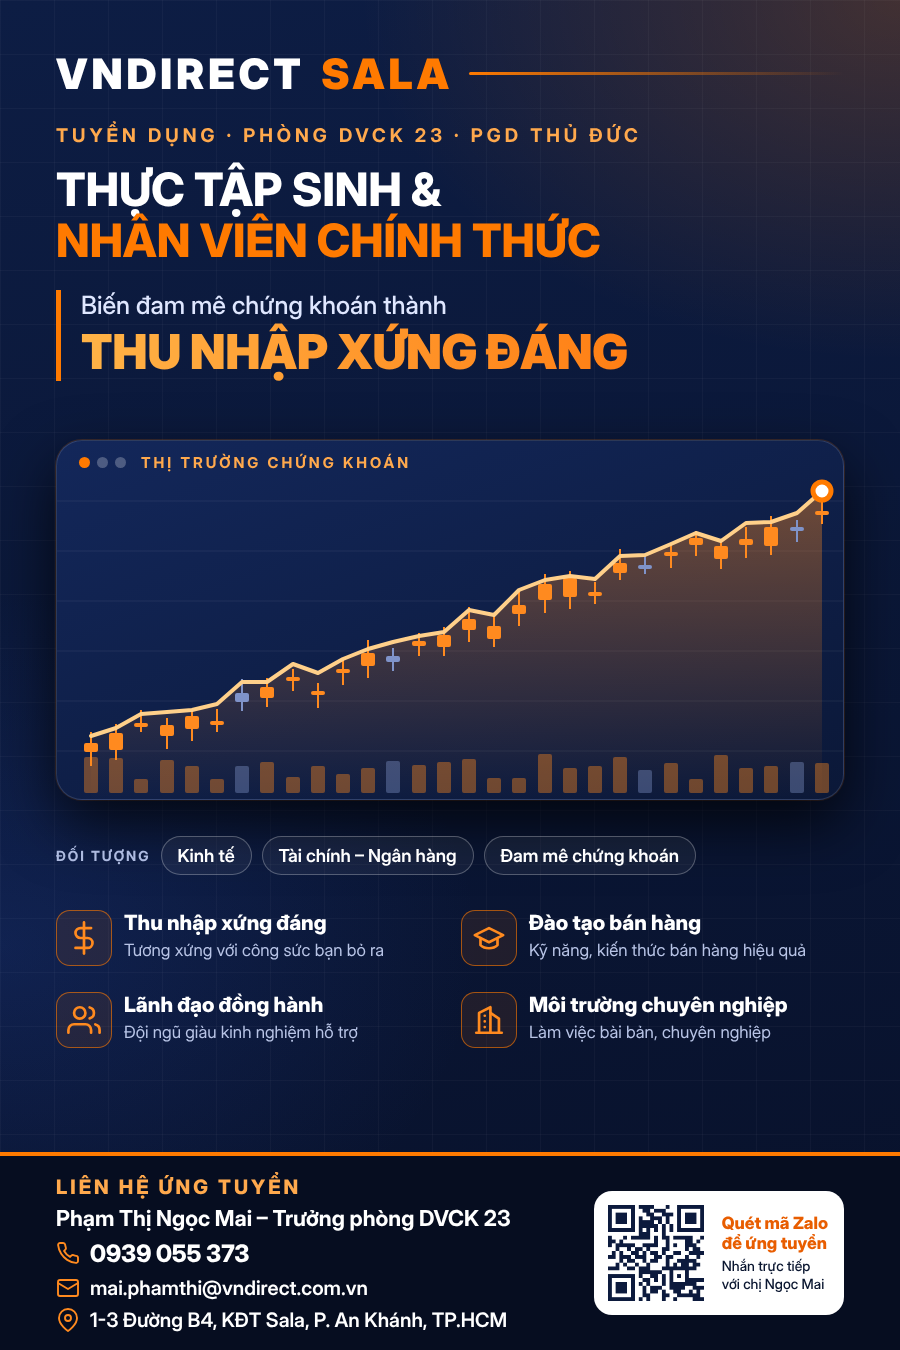
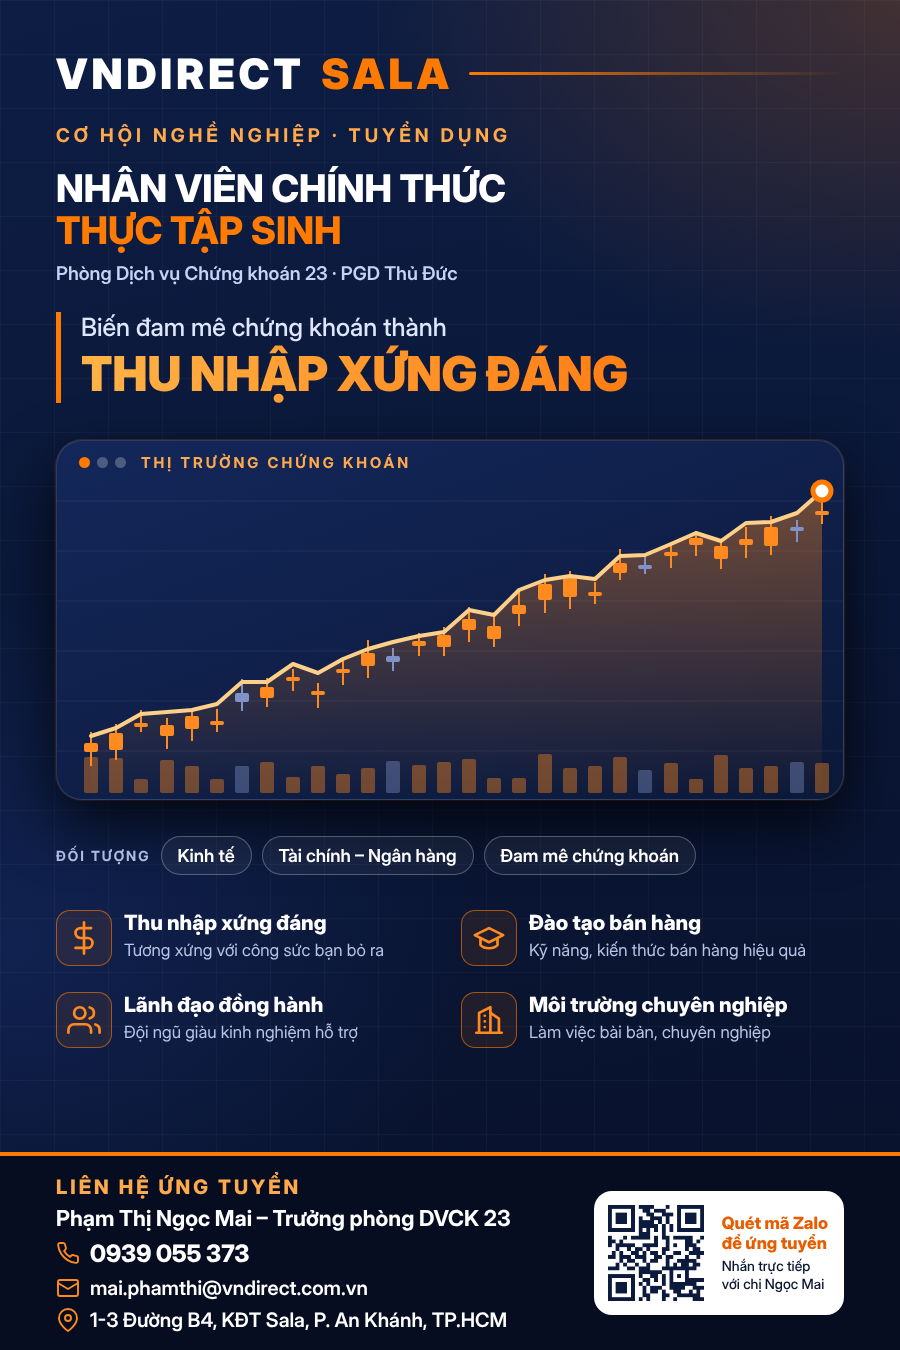
Reorder headline, add career-opportunity label, shrink headline font
Claude-Session: https://claude.ai/code/session_018tv2baJyNPqKrqKUyJ6wTq

Changed region(s): [[0.0622, 0.0933, 0.7156, 0.3111]]

diff --git a/tuyen-dung-vndirect/banner-doc.html b/tuyen-dung-vndirect/banner-doc.html
@@ -8,9 +8,10 @@ background:radial-gradient(900px 600px at 100% 0%,#ff7a0038 0,#0000 60%),radial-
 .logo{top:48px;font-size:46px;font-weight:900;letter-spacing:4px;display:flex;align-items:center;gap:16px}
 .logo span{color:var(--o)} .logo i{flex:1;height:3px;background:linear-gradient(90deg,var(--o),#0000);border-radius:2px}
 .ov{top:124px;font-size:19px;font-weight:700;letter-spacing:4px;color:var(--o2)}
-h1{top:164px;font-size:46px;line-height:1.1;font-weight:800;text-transform:uppercase}
+h1{top:168px;font-size:38px;line-height:1.1;font-weight:800;text-transform:uppercase}
 h1 span{color:var(--o)}
-.q{top:290px;padding-left:20px;border-left:5px solid var(--o)}
+.dept{top:262px;font-size:19px;font-weight:600;color:#c7d3f5}
+.q{top:312px;padding-left:20px;border-left:5px solid var(--o)}
 .q p{font-size:25px;font-weight:500;color:#dfe7ff}
 .q b{display:block;margin-top:2px;font-size:48px;font-weight:900;text-transform:uppercase;background:linear-gradient(90deg,#ffb347,#ff6a00);-webkit-background-clip:text;color:transparent;white-space:nowrap}
 .dash{top:440px;height:360px;border-radius:26px;background:linear-gradient(160deg,#13275a,#0b1838);border:1px solid #ffffff22;box-shadow:0 24px 60px #000b,0 0 0 1px #ff7a0033;overflow:hidden}
@@ -36,8 +37,8 @@ h1 span{color:var(--o)}
 .qr p{font-size:15px;font-weight:500;line-height:1.3;margin-top:3px}
 </style></head><body><div class="grid"></div>
 <div class="a logo">VNDIRECT <span>SALA</span><i></i></div>
-<div class="a ov">TUYỂN DỤNG · PHÒNG DVCK 23 · PGD THỦ ĐỨC</div>
-<h1 class="a">Thực tập sinh &amp;<br><span>Nhân viên chính thức</span></h1>
+<div class="a ov">CƠ HỘI NGHỀ NGHIỆP · TUYỂN DỤNG</div>
+<h1 class="a">Nhân viên chính thức<br><span>Thực tập sinh</span></h1><div class="a dept">Phòng Dịch vụ Chứng khoán 23 · PGD Thủ Đức</div>
 <div class="a q"><p>Biến đam mê chứng khoán thành</p><b>thu nhập xứng đáng</b></div>
 <div class="a dash"><div class="dh"><i></i><i></i><i></i></div><div class="dt">THỊ TRƯỜNG CHỨNG KHOÁN</div>
 <svg viewBox="0 0 952 360" width="952" height="360"><defs><linearGradient id="a" x1="0" y1="0" x2="0" y2="1"><stop offset="0" stop-color="#ff8a1f" stop-opacity=".4"/><stop offset="1" stop-color="#ff8a1f" stop-opacity="0"/></linearGradient></defs><line x1="0" y1="60" x2="952" y2="60" stroke="#fff" stroke-opacity=".07"/><line x1="0" y1="110" x2="952" y2="110" stroke="#fff" stroke-opacity=".07"/><line x1="0" y1="160" x2="952" y2="160" stroke="#fff" stroke-opacity=".07"/><line x1="0" y1="210" x2="952" y2="210" stroke="#fff" stroke-opacity=".07"/><line x1="0" y1="260" x2="952" y2="260" stroke="#fff" stroke-opacity=".07"/><line x1="0" y1="310" x2="952" y2="310" stroke="#fff" stroke-opacity=".07"/><polygon points="36,295 61,289 86,276 112,276 137,275 162,270 187,250 212,251 238,235 263,245 288,232 313,224 338,218 364,214 389,211 414,190 439,197 464,173 490,165 515,162 540,166 565,145 590,145 616,136 641,126 666,135 691,119 716,119 742,112 767,91 792,87 817,85 842,78 868,63 893,69 918,50 918,360 36,360" fill="url(#a)"/><rect x="29" y="316" width="14" height="36" rx="2" fill="#ff8a1f" opacity=".4"/><rect x="54" y="317" width="14" height="35" rx="2" fill="#ff8a1f" opacity=".4"/><rect x="79" y="338" width="14" height="14" rx="2" fill="#ff8a1f" opacity=".4"/><rect x="105" y="319" width="14" height="33" rx="2" fill="#ff8a1f" opacity=".4"/><rect x="130" y="325" width="14" height="27" rx="2" fill="#ff8a1f" opacity=".4"/><rect x="155" y="338" width="14" height="14" rx="2" fill="#ff8a1f" opacity=".4"/><rect x="180" y="325" width="14" height="27" rx="2" fill="#7f93c9" opacity=".4"/><rect x="205" y="321" width="14" height="31" rx="2" fill="#ff8a1f" opacity=".4"/><rect x="231" y="336" width="14" height="16" rx="2" fill="#ff8a1f" opacity=".4"/><rect x="256" y="325" width="14" height="27" rx="2" fill="#ff8a1f" opacity=".4"/><rect x="281" y="333" width="14" height="19" rx="2" fill="#ff8a1f" opacity=".4"/><rect x="306" y="327" width="14" height="25" rx="2" fill="#ff8a1f" opacity=".4"/><rect x="331" y="320" width="14" height="32" rx="2" fill="#7f93c9" opacity=".4"/><rect x="357" y="324" width="14" height="28" rx="2" fill="#ff8a1f" opacity=".4"/><rect x="382" y="321" width="14" height="31" rx="2" fill="#ff8a1f" opacity=".4"/><rect x="407" y="318" width="14" height="34" rx="2" fill="#ff8a1f" opacity=".4"/><rect x="432" y="337" width="14" height="15" rx="2" fill="#ff8a1f" opacity=".4"/><rect x="457" y="337" width="14" height="15" rx="2" fill="#ff8a1f" opacity=".4"/><rect x="483" y="313" width="14" height="39" rx="2" fill="#ff8a1f" opacity=".4"/><rect x="508" y="327" width="14" height="25" rx="2" fill="#ff8a1f" opacity=".4"/><rect x="533" y="325" width="14" height="27" rx="2" fill="#ff8a1f" opacity=".4"/><rect x="558" y="316" width="14" height="36" rx="2" fill="#ff8a1f" opacity=".4"/><rect x="583" y="329" width="14" height="23" rx="2" fill="#7f93c9" opacity=".4"/><rect x="609" y="322" width="14" height="30" rx="2" fill="#ff8a1f" opacity=".4"/><rect x="634" y="338" width="14" height="14" rx="2" fill="#ff8a1f" opacity=".4"/><rect x="659" y="314" width="14" height="38" rx="2" fill="#ff8a1f" opacity=".4"/><rect x="684" y="327" width="14" height="25" rx="2" fill="#ff8a1f" opacity=".4"/><rect x="709" y="325" width="14" height="27" rx="2" fill="#ff8a1f" opacity=".4"/><rect x="735" y="321" width="14" height="31" rx="2" fill="#7f93c9" opacity=".4"/><rect x="760" y="322" width="14" height="30" rx="2" fill="#ff8a1f" opacity=".4"/><rect x="785" y="321" width="14" height="31" rx="2" fill="#ff8a1f" opacity=".4"/><rect x="810" y="339" width="14" height="13" rx="2" fill="#ff8a1f" opacity=".4"/><rect x="835" y="317" width="14" height="35" rx="2" fill="#7f93c9" opacity=".4"/><rect x="861" y="333" width="14" height="19" rx="2" fill="#7f93c9" opacity=".4"/><rect x="886" y="323" width="14" height="29" rx="2" fill="#ff8a1f" opacity=".4"/><rect x="911" y="320" width="14" height="32" rx="2" fill="#7f93c9" opacity=".4"/><line x1="36" y1="291" x2="36" y2="325" stroke="#ff8a1f" stroke-width="2"/><rect x="29" y="302" width="14" height="9" rx="2" fill="#ff8a1f"/><line x1="61" y1="285" x2="61" y2="321" stroke="#ff8a1f" stroke-width="2"/><rect x="54" y="294" width="14" height="17" rx="2" fill="#ff8a1f"/><line x1="86" y1="272" x2="86" y2="294" stroke="#ff8a1f" stroke-width="2"/><rect x="79" y="285" width="14" height="4" rx="2" fill="#ff8a1f"/><line x1="112" y1="282" x2="112" y2="313" stroke="#ff8a1f" stroke-width="2"/><rect x="105" y="289" width="14" height="11" rx="2" fill="#ff8a1f"/><line x1="137" y1="274" x2="137" y2="306" stroke="#ff8a1f" stroke-width="2"/><rect x="130" y="281" width="14" height="13" rx="2" fill="#ff8a1f"/><line x1="162" y1="275" x2="162" y2="298" stroke="#ff8a1f" stroke-width="2"/><rect x="155" y="287" width="14" height="4" rx="2" fill="#ff8a1f"/><line x1="187" y1="247" x2="187" y2="279" stroke="#7f93c9" stroke-width="2"/><rect x="180" y="261" width="14" height="9" rx="2" fill="#7f93c9"/><line x1="212" y1="247" x2="212" y2="276" stroke="#ff8a1f" stroke-width="2"/><rect x="205" y="256" width="14" height="11" rx="2" fill="#ff8a1f"/><line x1="238" y1="240" x2="238" y2="262" stroke="#ff8a1f" stroke-width="2"/><rect x="231" y="248" width="14" height="4" rx="2" fill="#ff8a1f"/><line x1="263" y1="255" x2="263" y2="280" stroke="#ff8a1f" stroke-width="2"/><rect x="256" y="263" width="14" height="4" rx="2" fill="#ff8a1f"/><line x1="288" y1="233" x2="288" y2="258" stroke="#ff8a1f" stroke-width="2"/><rect x="281" y="242" width="14" height="4" rx="2" fill="#ff8a1f"/><line x1="313" y1="215" x2="313" y2="253" stroke="#ff8a1f" stroke-width="2"/><rect x="306" y="228" width="14" height="13" rx="2" fill="#ff8a1f"/><line x1="338" y1="224" x2="338" y2="247" stroke="#7f93c9" stroke-width="2"/><rect x="331" y="232" width="14" height="6" rx="2" fill="#7f93c9"/><line x1="364" y1="211" x2="364" y2="234" stroke="#ff8a1f" stroke-width="2"/><rect x="357" y="219" width="14" height="5" rx="2" fill="#ff8a1f"/><line x1="389" y1="206" x2="389" y2="235" stroke="#ff8a1f" stroke-width="2"/><rect x="382" y="214" width="14" height="12" rx="2" fill="#ff8a1f"/><line x1="414" y1="187" x2="414" y2="222" stroke="#ff8a1f" stroke-width="2"/><rect x="407" y="199" width="14" height="11" rx="2" fill="#ff8a1f"/><line x1="439" y1="198" x2="439" y2="229" stroke="#ff8a1f" stroke-width="2"/><rect x="432" y="208" width="14" height="13" rx="2" fill="#ff8a1f"/><line x1="464" y1="175" x2="464" y2="209" stroke="#ff8a1f" stroke-width="2"/><rect x="457" y="188" width="14" height="9" rx="2" fill="#ff8a1f"/><line x1="490" y1="159" x2="490" y2="198" stroke="#ff8a1f" stroke-width="2"/><rect x="483" y="169" width="14" height="16" rx="2" fill="#ff8a1f"/><line x1="515" y1="157" x2="515" y2="195" stroke="#ff8a1f" stroke-width="2"/><rect x="508" y="164" width="14" height="19" rx="2" fill="#ff8a1f"/><line x1="540" y1="169" x2="540" y2="191" stroke="#ff8a1f" stroke-width="2"/><rect x="533" y="179" width="14" height="4" rx="2" fill="#ff8a1f"/><line x1="565" y1="138" x2="565" y2="169" stroke="#ff8a1f" stroke-width="2"/><rect x="558" y="152" width="14" height="10" rx="2" fill="#ff8a1f"/><line x1="590" y1="144" x2="590" y2="164" stroke="#7f93c9" stroke-width="2"/><rect x="583" y="155" width="14" height="4" rx="2" fill="#7f93c9"/><line x1="616" y1="136" x2="616" y2="160" stroke="#ff8a1f" stroke-width="2"/><rect x="609" y="144" width="14" height="4" rx="2" fill="#ff8a1f"/><line x1="641" y1="124" x2="641" y2="149" stroke="#ff8a1f" stroke-width="2"/><rect x="634" y="131" width="14" height="7" rx="2" fill="#ff8a1f"/><line x1="666" y1="133" x2="666" y2="163" stroke="#ff8a1f" stroke-width="2"/><rect x="659" y="140" width="14" height="13" rx="2" fill="#ff8a1f"/><line x1="691" y1="123" x2="691" y2="154" stroke="#ff8a1f" stroke-width="2"/><rect x="684" y="135" width="14" height="6" rx="2" fill="#ff8a1f"/><line x1="716" y1="113" x2="716" y2="152" stroke="#ff8a1f" stroke-width="2"/><rect x="709" y="124" width="14" height="19" rx="2" fill="#ff8a1f"/><line x1="742" y1="119" x2="742" y2="141" stroke="#7f93c9" stroke-width="2"/><rect x="735" y="126" width="14" height="4" rx="2" fill="#7f93c9"/><line x1="767" y1="100" x2="767" y2="124" stroke="#ff8a1f" stroke-width="2"/><rect x="760" y="111" width="14" height="4" rx="2" fill="#ff8a1f"/><line x1="792" y1="76" x2="792" y2="121" stroke="#ff8a1f" stroke-width="2"/><rect x="785" y="89" width="14" height="21" rx="2" fill="#ff8a1f"/><line x1="817" y1="92" x2="817" y2="116" stroke="#ff8a1f" stroke-width="2"/><rect x="810" y="101" width="14" height="6" rx="2" fill="#ff8a1f"/><line x1="842" y1="82" x2="842" y2="107" stroke="#7f93c9" stroke-width="2"/><rect x="835" y="89" width="14" height="4" rx="2" fill="#7f93c9"/><line x1="868" y1="63" x2="868" y2="89" stroke="#7f93c9" stroke-width="2"/><rect x="861" y="74" width="14" height="6" rx="2" fill="#7f93c9"/><line x1="893" y1="63" x2="893" y2="94" stroke="#ff8a1f" stroke-width="2"/><rect x="886" y="77" width="14" height="7" rx="2" fill="#ff8a1f"/><line x1="918" y1="49" x2="918" y2="75" stroke="#7f93c9" stroke-width="2"/><rect x="911" y="62" width="14" height="4" rx="2" fill="#7f93c9"/><polyline points="36,295 61,289 86,276 112,276 137,275 162,270 187,250 212,251 238,235 263,245 288,232 313,224 338,218 364,214 389,211 414,190 439,197 464,173 490,165 515,162 540,166 565,145 590,145 616,136 641,126 666,135 691,119 716,119 742,112 767,91 792,87 817,85 842,78 868,63 893,69 918,50" fill="none" stroke="#ffd08a" stroke-width="4" stroke-linecap="round" stroke-linejoin="round"/><circle cx="918" cy="50" r="9" fill="#fff" stroke="#ff7a00" stroke-width="5"/></svg></div>

diff --git a/tuyen-dung-vndirect/banner-doc-900.html b/tuyen-dung-vndirect/banner-doc-900.html
@@ -8,9 +8,10 @@ background:radial-gradient(900px 600px at 100% 0%,#ff7a0038 0,#0000 60%),radial-
 .logo{top:48px;font-size:42px;font-weight:900;letter-spacing:4px;display:flex;align-items:center;gap:16px}
 .logo span{color:var(--o)} .logo i{flex:1;height:3px;background:linear-gradient(90deg,var(--o),#0000);border-radius:2px}
 .ov{top:124px;font-size:19px;font-weight:700;letter-spacing:4px;color:var(--o2)}
-h1{top:164px;font-size:46px;line-height:1.1;font-weight:800;text-transform:uppercase}
+h1{top:168px;font-size:38px;line-height:1.1;font-weight:800;text-transform:uppercase}
 h1 span{color:var(--o)}
-.q{top:290px;padding-left:20px;border-left:5px solid var(--o)}
+.dept{top:262px;font-size:19px;font-weight:600;color:#c7d3f5}
+.q{top:312px;padding-left:20px;border-left:5px solid var(--o)}
 .q p{font-size:25px;font-weight:500;color:#dfe7ff}
 .q b{display:block;margin-top:2px;font-size:48px;font-weight:900;text-transform:uppercase;background:linear-gradient(90deg,#ffb347,#ff6a00);-webkit-background-clip:text;color:transparent;white-space:nowrap}
 .dash{top:440px;height:360px;border-radius:26px;background:linear-gradient(160deg,#13275a,#0b1838);border:1px solid #ffffff22;box-shadow:0 24px 60px #000b,0 0 0 1px #ff7a0033;overflow:hidden}
@@ -36,8 +37,8 @@ h1 span{color:var(--o)}
 .qr p{font-size:14px;font-weight:500;line-height:1.3;margin-top:3px}
 </style></head><body><div class="grid"></div>
 <div class="a logo">VNDIRECT <span>SALA</span><i></i></div>
-<div class="a ov">TUYỂN DỤNG · PHÒNG DVCK 23 · PGD THỦ ĐỨC</div>
-<h1 class="a">Thực tập sinh &amp;<br><span>Nhân viên chính thức</span></h1>
+<div class="a ov">CƠ HỘI NGHỀ NGHIỆP · TUYỂN DỤNG</div>
+<h1 class="a">Nhân viên chính thức<br><span>Thực tập sinh</span></h1><div class="a dept">Phòng Dịch vụ Chứng khoán 23 · PGD Thủ Đức</div>
 <div class="a q"><p>Biến đam mê chứng khoán thành</p><b>thu nhập xứng đáng</b></div>
 <div class="a dash"><div class="dh"><i></i><i></i><i></i></div><div class="dt">THỊ TRƯỜNG CHỨNG KHOÁN</div>
 <svg viewBox="0 0 788 360" width="788" height="360"><defs><linearGradient id="a" x1="0" y1="0" x2="0" y2="1"><stop offset="0" stop-color="#ff8a1f" stop-opacity=".4"/><stop offset="1" stop-color="#ff8a1f" stop-opacity="0"/></linearGradient></defs><line x1="0" y1="60" x2="788" y2="60" stroke="#fff" stroke-opacity=".07"/><line x1="0" y1="110" x2="788" y2="110" stroke="#fff" stroke-opacity=".07"/><line x1="0" y1="160" x2="788" y2="160" stroke="#fff" stroke-opacity=".07"/><line x1="0" y1="210" x2="788" y2="210" stroke="#fff" stroke-opacity=".07"/><line x1="0" y1="260" x2="788" y2="260" stroke="#fff" stroke-opacity=".07"/><line x1="0" y1="310" x2="788" y2="310" stroke="#fff" stroke-opacity=".07"/><polygon points="34,295 59,287 84,273 110,271 135,269 160,263 185,241 210,241 236,223 261,232 286,218 311,208 336,201 362,195 387,191 412,169 437,174 462,149 488,139 513,135 538,138 563,115 588,114 614,103 639,92 664,100 689,82 714,81 740,72 765,50 765,360 34,360" fill="url(#a)"/><rect x="27" y="316" width="14" height="36" rx="2" fill="#ff8a1f" opacity=".4"/><rect x="52" y="317" width="14" height="35" rx="2" fill="#ff8a1f" opacity=".4"/><rect x="77" y="338" width="14" height="14" rx="2" fill="#ff8a1f" opacity=".4"/><rect x="103" y="319" width="14" height="33" rx="2" fill="#ff8a1f" opacity=".4"/><rect x="128" y="325" width="14" height="27" rx="2" fill="#ff8a1f" opacity=".4"/><rect x="153" y="338" width="14" height="14" rx="2" fill="#ff8a1f" opacity=".4"/><rect x="178" y="325" width="14" height="27" rx="2" fill="#7f93c9" opacity=".4"/><rect x="203" y="321" width="14" height="31" rx="2" fill="#ff8a1f" opacity=".4"/><rect x="229" y="336" width="14" height="16" rx="2" fill="#ff8a1f" opacity=".4"/><rect x="254" y="325" width="14" height="27" rx="2" fill="#ff8a1f" opacity=".4"/><rect x="279" y="333" width="14" height="19" rx="2" fill="#ff8a1f" opacity=".4"/><rect x="304" y="327" width="14" height="25" rx="2" fill="#ff8a1f" opacity=".4"/><rect x="329" y="320" width="14" height="32" rx="2" fill="#7f93c9" opacity=".4"/><rect x="355" y="324" width="14" height="28" rx="2" fill="#ff8a1f" opacity=".4"/><rect x="380" y="321" width="14" height="31" rx="2" fill="#ff8a1f" opacity=".4"/><rect x="405" y="318" width="14" height="34" rx="2" fill="#ff8a1f" opacity=".4"/><rect x="430" y="337" width="14" height="15" rx="2" fill="#ff8a1f" opacity=".4"/><rect x="455" y="337" width="14" height="15" rx="2" fill="#ff8a1f" opacity=".4"/><rect x="481" y="313" width="14" height="39" rx="2" fill="#ff8a1f" opacity=".4"/><rect x="506" y="327" width="14" height="25" rx="2" fill="#ff8a1f" opacity=".4"/><rect x="531" y="325" width="14" height="27" rx="2" fill="#ff8a1f" opacity=".4"/><rect x="556" y="316" width="14" height="36" rx="2" fill="#ff8a1f" opacity=".4"/><rect x="581" y="329" width="14" height="23" rx="2" fill="#7f93c9" opacity=".4"/><rect x="607" y="322" width="14" height="30" rx="2" fill="#ff8a1f" opacity=".4"/><rect x="632" y="338" width="14" height="14" rx="2" fill="#ff8a1f" opacity=".4"/><rect x="657" y="314" width="14" height="38" rx="2" fill="#ff8a1f" opacity=".4"/><rect x="682" y="327" width="14" height="25" rx="2" fill="#ff8a1f" opacity=".4"/><rect x="707" y="325" width="14" height="27" rx="2" fill="#ff8a1f" opacity=".4"/><rect x="733" y="321" width="14" height="31" rx="2" fill="#7f93c9" opacity=".4"/><rect x="758" y="322" width="14" height="30" rx="2" fill="#ff8a1f" opacity=".4"/><line x1="34" y1="291" x2="34" y2="325" stroke="#ff8a1f" stroke-width="2"/><rect x="27" y="302" width="14" height="9" rx="2" fill="#ff8a1f"/><line x1="59" y1="283" x2="59" y2="319" stroke="#ff8a1f" stroke-width="2"/><rect x="52" y="292" width="14" height="17" rx="2" fill="#ff8a1f"/><line x1="84" y1="269" x2="84" y2="291" stroke="#ff8a1f" stroke-width="2"/><rect x="77" y="282" width="14" height="4" rx="2" fill="#ff8a1f"/><line x1="110" y1="277" x2="110" y2="308" stroke="#ff8a1f" stroke-width="2"/><rect x="103" y="284" width="14" height="11" rx="2" fill="#ff8a1f"/><line x1="135" y1="268" x2="135" y2="300" stroke="#ff8a1f" stroke-width="2"/><rect x="128" y="275" width="14" height="13" rx="2" fill="#ff8a1f"/><line x1="160" y1="268" x2="160" y2="291" stroke="#ff8a1f" stroke-width="2"/><rect x="153" y="280" width="14" height="4" rx="2" fill="#ff8a1f"/><line x1="185" y1="238" x2="185" y2="270" stroke="#7f93c9" stroke-width="2"/><rect x="178" y="252" width="14" height="9" rx="2" fill="#7f93c9"/><line x1="210" y1="237" x2="210" y2="266" stroke="#ff8a1f" stroke-width="2"/><rect x="203" y="246" width="14" height="11" rx="2" fill="#ff8a1f"/><line x1="236" y1="228" x2="236" y2="250" stroke="#ff8a1f" stroke-width="2"/><rect x="229" y="236" width="14" height="4" rx="2" fill="#ff8a1f"/><line x1="261" y1="242" x2="261" y2="267" stroke="#ff8a1f" stroke-width="2"/><rect x="254" y="250" width="14" height="4" rx="2" fill="#ff8a1f"/><line x1="286" y1="219" x2="286" y2="244" stroke="#ff8a1f" stroke-width="2"/><rect x="279" y="228" width="14" height="4" rx="2" fill="#ff8a1f"/><line x1="311" y1="199" x2="311" y2="237" stroke="#ff8a1f" stroke-width="2"/><rect x="304" y="212" width="14" height="13" rx="2" fill="#ff8a1f"/><line x1="336" y1="207" x2="336" y2="230" stroke="#7f93c9" stroke-width="2"/><rect x="329" y="215" width="14" height="6" rx="2" fill="#7f93c9"/><line x1="362" y1="192" x2="362" y2="215" stroke="#ff8a1f" stroke-width="2"/><rect x="355" y="200" width="14" height="5" rx="2" fill="#ff8a1f"/><line x1="387" y1="186" x2="387" y2="215" stroke="#ff8a1f" stroke-width="2"/><rect x="380" y="194" width="14" height="12" rx="2" fill="#ff8a1f"/><line x1="412" y1="166" x2="412" y2="201" stroke="#ff8a1f" stroke-width="2"/><rect x="405" y="178" width="14" height="11" rx="2" fill="#ff8a1f"/><line x1="437" y1="175" x2="437" y2="206" stroke="#ff8a1f" stroke-width="2"/><rect x="430" y="185" width="14" height="13" rx="2" fill="#ff8a1f"/><line x1="462" y1="151" x2="462" y2="185" stroke="#ff8a1f" stroke-width="2"/><rect x="455" y="164" width="14" height="9" rx="2" fill="#ff8a1f"/><line x1="488" y1="133" x2="488" y2="172" stroke="#ff8a1f" stroke-width="2"/><rect x="481" y="143" width="14" height="16" rx="2" fill="#ff8a1f"/><line x1="513" y1="130" x2="513" y2="168" stroke="#ff8a1f" stroke-width="2"/><rect x="506" y="137" width="14" height="19" rx="2" fill="#ff8a1f"/><line x1="538" y1="141" x2="538" y2="163" stroke="#ff8a1f" stroke-width="2"/><rect x="531" y="151" width="14" height="4" rx="2" fill="#ff8a1f"/><line x1="563" y1="108" x2="563" y2="139" stroke="#ff8a1f" stroke-width="2"/><rect x="556" y="122" width="14" height="10" rx="2" fill="#ff8a1f"/><line x1="588" y1="113" x2="588" y2="133" stroke="#7f93c9" stroke-width="2"/><rect x="581" y="124" width="14" height="4" rx="2" fill="#7f93c9"/><line x1="614" y1="103" x2="614" y2="127" stroke="#ff8a1f" stroke-width="2"/><rect x="607" y="111" width="14" height="4" rx="2" fill="#ff8a1f"/><line x1="639" y1="90" x2="639" y2="115" stroke="#ff8a1f" stroke-width="2"/><rect x="632" y="97" width="14" height="7" rx="2" fill="#ff8a1f"/><line x1="664" y1="98" x2="664" y2="128" stroke="#ff8a1f" stroke-width="2"/><rect x="657" y="105" width="14" height="13" rx="2" fill="#ff8a1f"/><line x1="689" y1="86" x2="689" y2="117" stroke="#ff8a1f" stroke-width="2"/><rect x="682" y="98" width="14" height="6" rx="2" fill="#ff8a1f"/><line x1="714" y1="75" x2="714" y2="114" stroke="#ff8a1f" stroke-width="2"/><rect x="707" y="86" width="14" height="19" rx="2" fill="#ff8a1f"/><line x1="740" y1="79" x2="740" y2="101" stroke="#7f93c9" stroke-width="2"/><rect x="733" y="86" width="14" height="4" rx="2" fill="#7f93c9"/><line x1="765" y1="59" x2="765" y2="83" stroke="#ff8a1f" stroke-width="2"/><rect x="758" y="70" width="14" height="4" rx="2" fill="#ff8a1f"/><polyline points="34,295 59,287 84,273 110,271 135,269 160,263 185,241 210,241 236,223 261,232 286,218 311,208 336,201 362,195 387,191 412,169 437,174 462,149 488,139 513,135 538,138 563,115 588,114 614,103 639,92 664,100 689,82 714,81 740,72 765,50" fill="none" stroke="#ffd08a" stroke-width="4" stroke-linecap="round" stroke-linejoin="round"/><circle cx="765" cy="50" r="9" fill="#fff" stroke="#ff7a00" stroke-width="5"/></svg></div>
